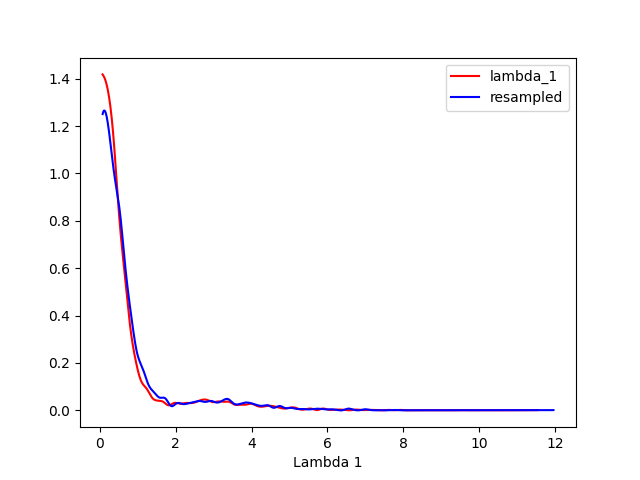
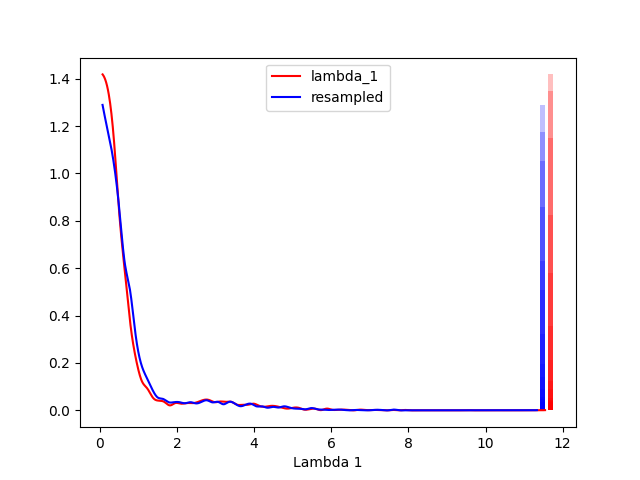
Tried ks-test and a splined histogram plot :) take2.

diff --git a/year3/lastStretch/lambdaReflectionStudy/reflectionTests.py b/year3/lastStretch/lambdaReflectionStudy/reflectionTests.py
@@ -187,6 +187,8 @@ def ksTest():
     print("dist spline ks: {}".format(splineKS))
 
     plt.clf()
+    plt.bar(bin_edgesDef[-1],histDef,width=np.diff(bin_edgesDef),align='edge',color='red',alpha=0.25)
+    plt.bar(bin_edgesResamp[-1],histResamp,width=np.diff(bin_edgesResamp),align='edge',color='blue',alpha=0.25)
     plt.plot(bin_centDef_smooth,histDef_smooth,color='red',label="lambda_1")
     plt.plot(bin_centResamp_smooth,histResamp_smooth,color='blue',label="resampled")
     plt.legend()
